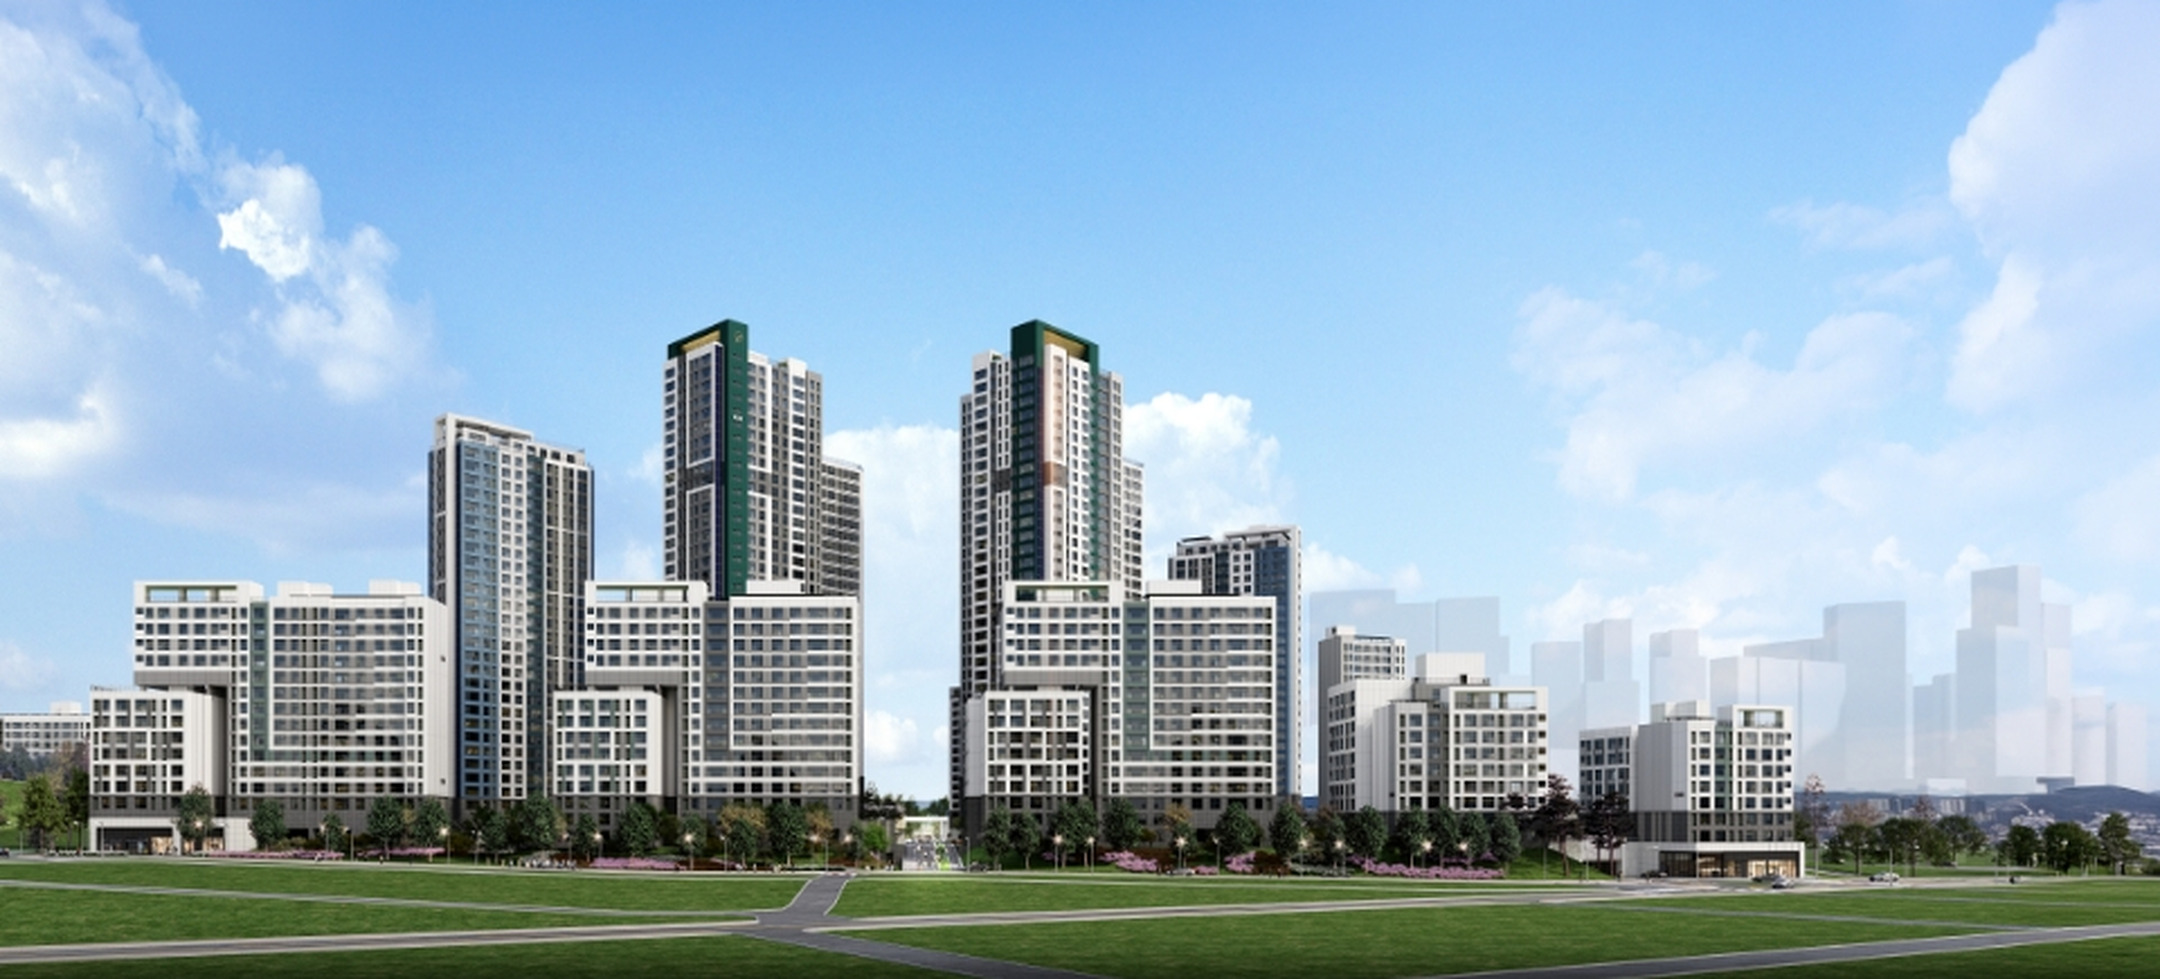
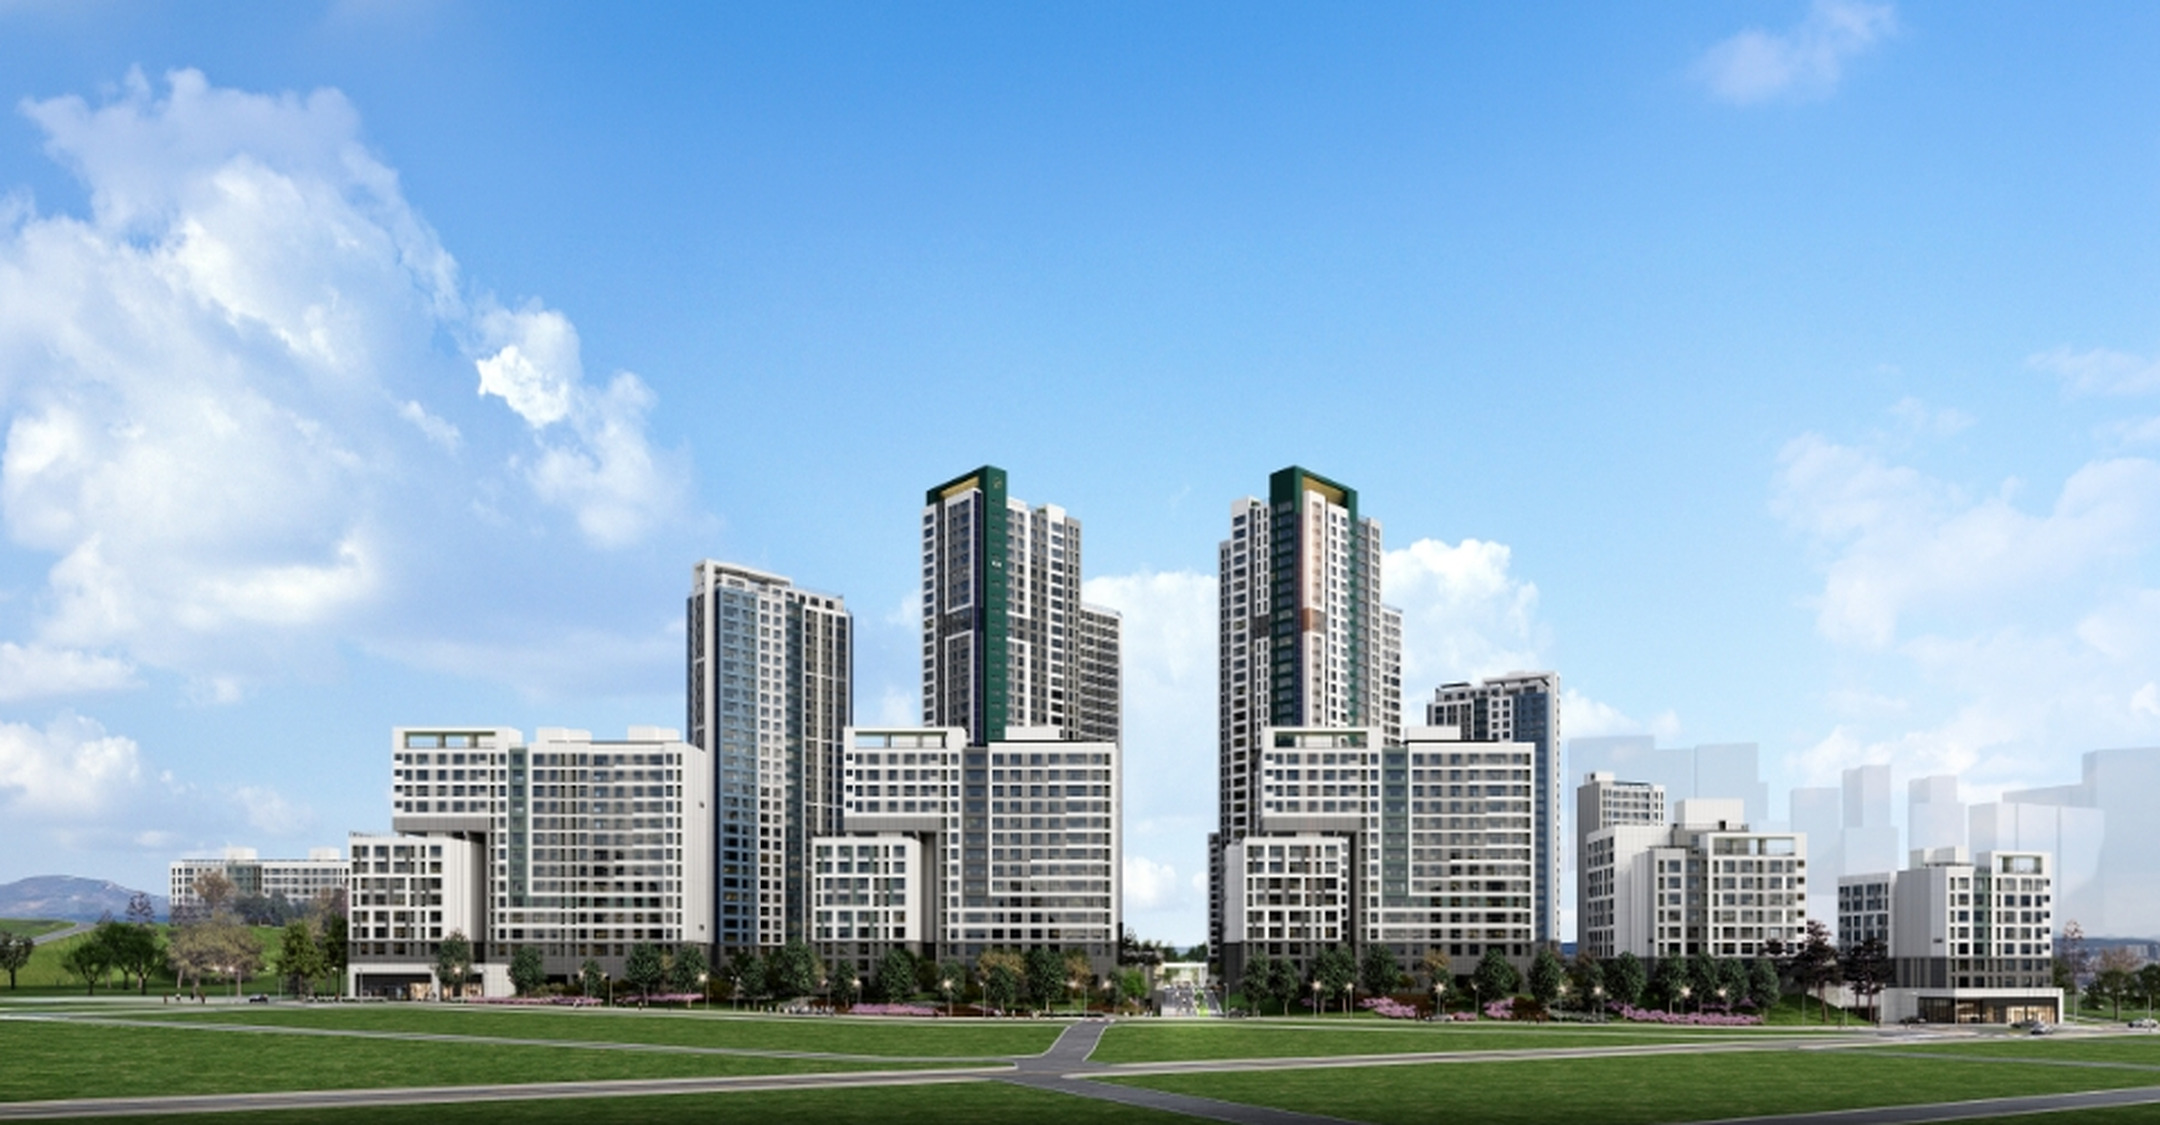
장위 카드 4차 — 조감도 자리 · 세로 배분 · 자격 요건 한 줄
오너 지시(2026-08-06)
· 단지가 왼쪽 위로 치우쳤다 → 크롭 창을 왼쪽·위로 옮겨(x185-1145 · y200-700)
  단지를 오른쪽·아래로 보냈다. 확대 배율(가로 960px)은 그대로다.
  가로는 눈대중이 아니라 잰다: 창문 격자의 세로 대비로 단지 질감의 가로 중앙값을
  구하니 653 이었고, 크롭 중심을 665 에 맞췄다.
  세로는 계산으로 푼다 — shift 는 남는 세로의 42.5% 라 크롭을 위로 늘리면
  건물이 표지 칸 안에서 내려온다. 지금 하늘 여유 41px, 건물 밑동이 잉크 번짐에
  닿아 제목 위 검정 띠가 거의 사라졌다.
· 최하단 문구를 한강 카드처럼 요건 한 줄로: 서울 거주 무주택세대구성원 · 청약통장 불필요
· 표가 제목 쪽에 붙어 있다 → .dcv-note 하나만 margin-top:auto 라 남는 세로가 전부
  아래로 몰렸다. .dcv-price 에도 auto 를 줘 free space 를 반씩 나눴다.
  ⚠ 확정본에 안 걸리게 :has(.frow.four) 로 네 칸 표 카드에만 건다.

확정본 픽셀 재확인: 한강 3dc78a13 · 송도 553d4532 그대로.
⚠ 분양가와 자격 요건 모두 아직 2차 출처다 — 공고문 대조 전까지 발행 금지.

Claude-Session: https://claude.ai/code/session_01StbCVLgj4734y7j9YsFG75

diff --git a/templates/danji-cover/template.html b/templates/danji-cover/template.html
@@ -121,6 +121,11 @@
        * 타입과 금액을 **같은 크기**로 둔다(오너 지시). 위계는 크기가 아니라 색이 만든다 —
        * 타입은 회색, 금액은 잉크, 주력 면적대만 코발트. */
       .dcv-price { margin-top: 30px; }
+      /* 남는 세로를 **위아래로 나눈다** (오너 지시 2026-08-06 "정보가 제목 쪽에 붙어 있다").
+       * .dcv-note 하나만 auto 면 남는 자리가 전부 아래로 몰려 표가 제목에 달라붙는다.
+       * auto 를 하나 더 두면 free space 가 반씩 갈려 표 덩어리가 종이 한가운데에 앉는다.
+       * ⚠ 확정본(한강·송도)에는 걸리지 않게 **네 칸 표를 가진 카드에만** 준다. */
+      .dcv:has(.frow.four) .dcv-price { margin-top: auto; }
       .dcv-price .top { display: flex; align-items: baseline; justify-content: space-between; }
       .dcv-grid { display: grid; column-gap: 22px; row-gap: 20px; }
       /* 타입과 금액은 칸 **가운데** 로 맞춘다(오너 지시 2026-08-03). 왼쪽 맞춤이면 '84A'와
